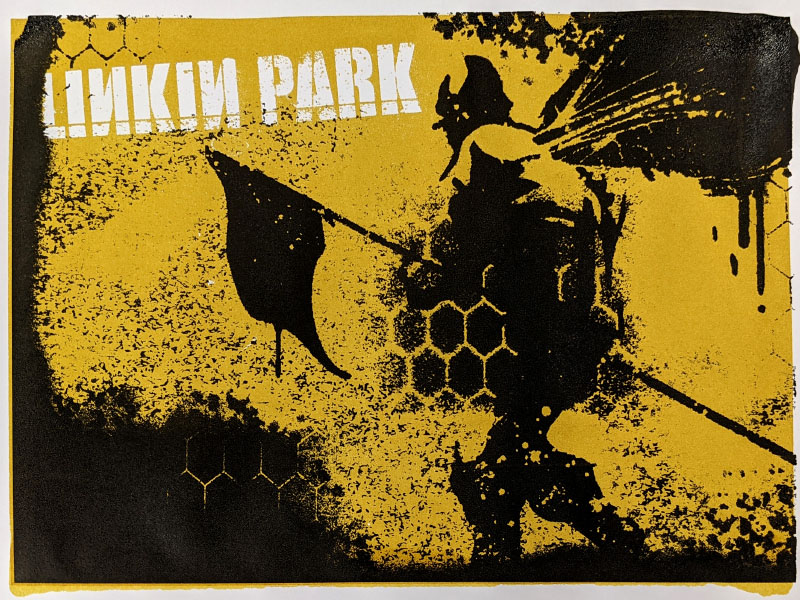
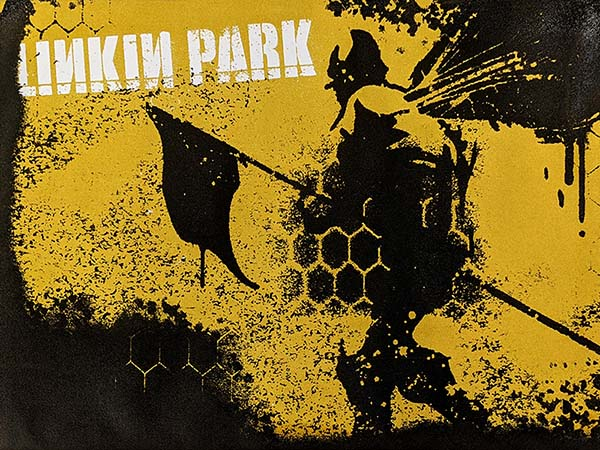
new cyberthug background. testing custom wiki

diff --git a/wiki/cyberthug.html b/wiki/cyberthug.html
@@ -1,0 +1,173 @@
+<!DOCTYPE html>
+<html lang="en">
+    <head>
+        <title>AmbiguousPhoenix</title>
+        <link rel="icon" type="image/png" href="../assets/favicon.png" />
+        <meta charset="utf-8">
+        <meta name="viewport" content="width=device-width, initial-scale=1">
+        <link rel="stylesheet" href="../framework/styles.css">
+        <link rel="stylesheet" href="../framework/colors.css">
+        <link rel="stylesheet" href="../framework/display.css">
+        <script src="../framework/scripts.js"></script>
+        <link rel="preconnect" href="https://fonts.googleapis.com">
+        <link rel="preconnect" href="https://fonts.gstatic.com" crossorigin>
+        <link href="https://fonts.googleapis.com/css2?family=Open+Sans:wght@300;400;500;700&display=swap" rel="stylesheet">
+    </head>
+    <body class="bgColor-blue" onload="document.body.style.opacity='1'">
+
+		<!-- Navbar Desktop-->
+        <nav class="navbarDesktop">
+            <div class="container-fluid" style="padding: 0px !important;">
+				<div class="navbarLogo" style="width: 440px;">
+					<img class="navbarLogo-image" src="../assets/vector/navbarHexagons.svg"/>
+					<a href="../index.html">
+                        <div class="navbarLogo-text">
+                            <span>AmbiguousPhoenix Wiki</span>
+                        </div>
+                    </a>
+				</div>
+                <div class="navbarLinks">
+					<a href="../cyberthug.html">
+						<div class="navbarLinks-other" style="width: 138px;">
+							<img class="navbarLinks-image" src="../assets/vector/cyberthug_small.svg"/>
+							<span class="navbarLinks-text">Cyberthug</span>
+						</div>
+					</a>
+					<a href="../phoenixNest.html">
+						<div class="navbarLinks-other" style="width: 158px;">
+							<img class="navbarLinks-image" src="../assets/vector/phoenixNest.svg"/>
+							<span class="navbarLinks-text">Phoenix Nest</span>
+						</div>
+					</a>
+					<div class="navbarLinksDividerDesktop"></div>
+					<a href="../school.html">
+    					<div class="navbarLinks-other" style="width: 108px;">
+    						<img class="navbarLinks-image" src="../assets/vector/school.svg"/>
+							<span class="navbarLinks-text">School</span>
+    					</div>
+					</a>
+					<a href="../photography.html">
+						<div class="navbarLinks-other" style="width: 156px;">
+							<img class="navbarLinks-image" src="../assets/vector/camera.svg"/>
+							<span class="navbarLinks-text">Photography</span>
+						</div>
+					</a>
+					<a href="../blog.html">
+						<div class="navbarLinks-other" style="width: 94px;">
+							<img class="navbarLinks-image" src="../assets/vector/pencil.svg"/>
+							<span class="navbarLinks-text">Blog</span>
+						</div>
+					</a>
+					<div class="navbarLinksDividerDesktop"></div>
+    				<a href="../about.html">
+    					<div class="navbarLinks-other" style="width: 72px !important;">
+							<span class="navbarLinks-text" style="margin-left: 0px; opacity: 100% !important;">About</span>
+    					</div>
+    				</a>
+                </div>
+                <div class="socialMediaNavbar">
+					<div class="socialMediaNavbar-link" style="border-radius: 13px 6px 6px 13px;">
+                        <a href="https://www.youtube.com/channel/UC3IHSgAeydyoG2bnNkp2FmA">
+                            <img class="socialMediaLink-image" src="../assets/vector/youtube.svg"/>
+                        </a>
+                    </div>
+					<div class="socialMediaNavbar-link" style="border-radius: 6px;">
+                        <a href="https://www.deviantart.com/ambiguousphoenix">
+                            <img class="socialMediaLink-image" src="../assets/vector/deviantArt.svg"/>
+                        </a>
+                    </div>
+                    <div class="socialMediaNavbar-link" style="border-radius: 6px;">
+                        <a href="https://twitter.com/ambiguousfeenix">
+                            <img class="socialMediaLink-image" src="../assets/vector/twitter.svg"/>
+                        </a>
+                    </div>
+                    <div class="socialMediaNavbar-link" style="border-radius: 6px 13px 13px 6px;">
+                        <a href="https://github.com/ambiguousphoenix">
+                            <img class="socialMediaLink-image" src="../assets/vector/github.svg"/>
+                        </a>
+                    </div>
+                </div>
+            </div>
+        </nav>
+
+
+		<!-- Navbar Mobile -->
+        <nav class="navbarMobile">
+            <div class="container-fluid" style="padding: 0px !important;">
+                <div class="navbarLogo">
+					<img class="navbarLogo-image" src="../assets/vector/navbarHexagons.svg"/>
+					<a href="../index.html">
+                        <div class="navbarLogo-text">
+                            <span>AmbiguousPhoenix</span>
+                        </div>
+                    </a>
+				</div>
+				<div class="navbarDividerMobile"></div>
+                <div class="navbarLinks" style="height: 48px;">
+					<a href="../cyberthug.html">
+						<div class="navbarLinks-other" style="border-radius: 0rem;">
+							<img class="navbarLinks-image" src="../assets/vector/cyberthug_small.svg"/>
+						</div>
+					</a>
+					<a href="../phoenixNest.html">
+						<div class="navbarLinks-other" style="border-radius: 0rem;">
+							<img class="navbarLinks-image" src="../assets/vector/phoenixNest.svg"/>
+						</div>
+					</a>
+					<div class="navbarLinksDividerDesktop"></div>
+					<a href="../school.html">
+						<div class="navbarLinks-other" style="border-radius: 0rem;">
+							<img class="navbarLinks-image" src="../assets/vector/school.svg"/>
+						</div>
+					</a>
+					<a href="../photography.html">
+						<div class="navbarLinks-other" style="border-radius: 0rem;">
+							<img class="navbarLinks-image" src="../assets/vector/camera.svg"/>
+						</div>
+					</a>
+					<a href="../blog.html">
+						<div class="navbarLinks-other" style="border-radius: 0rem;">
+							<img class="navbarLinks-image" src="../assets/vector/pencil.svg"/>
+						</div>
+					</a>
+					<div class="navbarLinksDividerDesktop"></div>
+					<a href="../about.html">
+						<div class="navbarLinks-other" style="border-radius: 0rem; width: 72px !important;">
+							<span class="navbarLinks-text" style="margin-left: 0px; opacity: 100% !important;">About</span>
+						</div>
+					</a>
+                </div>
+            </div>
+        </nav>
+
+
+        <div class="colorStrip"></div>
+
+		<!-- Blog post -->
+        <section class="section" style="display: flex; padding: 0;">
+			<div class="container column2-20 bgColor-blueDark" style="height: 2000px; padding-top: 1rem;">
+                <span class="section-heading textColor-white" style="text-align: left;">All Pages</span>
+				<br>
+				<a class="textLink2" href="../wiki/cyberthug.html">Cyberthug</a><br>
+				<a class="textLink2" href="../wiki/cyberthugCore.html">Cyberthug Core</a><br>
+            </div>
+            <div class="container column2-80" style="padding-top: 4rem; padding-left: 5%; padding-right: 5%;">
+                <span class="section-heading textColor-white" style="text-align: left;">Cyberthug</span>
+				<div class="blog-divider"></div>
+                <div class="row">
+					<p class="blog-paragraph textColor-white">
+						wiki entry
+					</p>
+                </div>
+            </div>
+        </section>
+
+
+        <!-- Copyright -->
+        <div class="footer">
+            <div class="colorStrip"></div>
+            <span class="copyright">&copy; AmbiguousPhoenix 2021</span>
+        </div>
+
+    </body>
+</html>

diff --git a/school.html b/school.html
@@ -196,7 +196,7 @@
 							<a class="glassButton-link" href="files/2021-sem2-appliedMedia.pdf">
 								<img class="glassButton-image" style="padding: 1rem;" src="assets/vector/workbook.svg"/>
 								<div style="display: flex; flex-direction: column; margin-top: auto; margin-bottom: auto;">
-									<span style="font-weight: 500;">Applied Media Studio (Cyberthug Core)</span>
+									<span style="font-weight: 500;">Applied Media Studio</span>
 								</div>
 							</a>
 						</div>
@@ -204,7 +204,7 @@
 							<a class="glassButton-link" href="files/2021-sem2-appliedMedia-cyberthugDelta.pdf">
 								<img class="glassButton-image" style="padding: 1rem;" src="assets/vector/workbook.svg"/>
 								<div style="display: flex; flex-direction: column; margin-top: auto; margin-bottom: auto;">
-									<span style="font-weight: 500;">Applied Media Studio (Cyberthug Delta)</span>
+									<span style="font-weight: 500;">Applied Media Studio (Cyberthug Remake)</span>
 								</div>
 							</a>
 						</div>
@@ -265,12 +265,12 @@
                     </div>
 
 					<div class="column3 cardStandard bgColor-school-2b">
-                        <span class="cardStandard-title">Cyberthug Delta</span>
+                        <span class="cardStandard-title">Cyberthug Remake</span>
 						<br>
                         <span class="cardStandard-subtitle textColor-secondary">Semester 2: Applied Media Studio</span>
                         <img class="cardStandard-image" src="assets/images/school/cyberthugDelta2.jpg"/>
                         <div class="cardStandard-description">
-                            <span>This was something I decided to do as supplementary material. It's an attempt to recreate the Cyberthug in a CGI environment. I didn't end up finishing it, but considering I didn't have much experience with modelling characters, I'm pretty impressed with how it turned out.</span>
+                            <span>This was something I decided to do as supplementary material. It's an attempt to recreate the Cyberthug in Blender and Maya. I didn't end up finishing it, but it's a start in learning character modelling.</span>
                         </div>
                     </div>
 
@@ -369,7 +369,7 @@
                         <span class="cardStandard-title">Energy Drink</span>
                         <img class="cardStandard-image" src="assets/images/school/energyDrink.jpg"/>
                         <div class="cardStandard-description">
-                            <span>sample text</span>
+                            <span>This was made for a graphic design class, and involved creating a concept for a product.</span>
                         </div>
                     </div>
 
@@ -467,7 +467,7 @@
                         <span class="cardStandard-subtitle textColor-secondary">Semester 1: Digital Studio</span>
                         <img class="cardStandard-image" src="assets/images/school/multipage.jpg"/>
                         <div class="cardStandard-description">
-                            <span>This was one of my first assignments at Te Auaha. I think it just required some provided blocks of text that the visitor could navigate between.</span>
+                            <span>This was one of my first assignments at Weltec. I think it just required some provided blocks of text that the visitor could navigate between.</span>
                         </div>
 						<div class="cardStandard-button" style="float: right;">
                             <a class="cardStandard-buttonSub bgColor-school-3b" href="files/2018-sem1-multipage/index.html">
@@ -494,7 +494,7 @@
                             <iframe class="cardStandard-youtube" allowfullscreen src="https://www.youtube.com/embed/tuRGLbflg_w?rel=0&loop=1&modestbranding=1"></iframe>
                         </div>
                         <div class="cardStandard-description">
-                            <span>This music video turned out really bad in my opinion. I didn't give much consideration to the camera techniques and the narrative was a little sloppy.</span>
+                            <span>This music video turned out really bad in my opinion. I didn't give much consideration to the camera techniques and the narrative was a little sloppy. I even lip-synched to my own voice!</span>
                         </div>
                     </div>
 

diff --git a/framework/display.css b/framework/display.css
@@ -68,6 +68,16 @@
         width: 100%;
     }
 
+	.column2-80 {
+        flex: 0 0 auto;
+        width: 100%;
+    }
+
+	.column2-20 {
+        flex: 0 0 auto;
+        width: 100%;
+    }
+
 	.columnCyberthugA {
 	    flex: 0 0 auto;
 	    width: 100%;
@@ -193,6 +203,16 @@
     }
 
 	.column2-40 {
+        flex: 0 0 auto;
+        width: 100%;
+    }
+
+	.column2-80 {
+        flex: 0 0 auto;
+        width: 100%;
+    }
+
+	.column2-20 {
         flex: 0 0 auto;
         width: 100%;
     }
@@ -327,6 +347,16 @@
 		padding-right: 2rem;
     }
 
+	.column2-80 {
+        flex: 0 0 auto;
+        width: 100%;
+    }
+
+	.column2-20 {
+        flex: 0 0 auto;
+        width: 100%;
+    }
+
 	.columnCyberthugA {
 	    flex: 0 0 auto;
 	    width: 40%;
@@ -450,6 +480,18 @@
 	.column2-40 {
         flex: 0 0 auto;
         width: 40%;
+		padding-right: 2rem;
+    }
+
+	.column2-80 {
+        flex: 0 0 auto;
+        width: 80%;
+		padding-right: 2rem;
+    }
+
+	.column2-20 {
+        flex: 0 0 auto;
+        width: 20%;
 		padding-right: 2rem;
     }
 

diff --git a/phoenixNest.html b/phoenixNest.html
@@ -155,7 +155,7 @@
 
 					<div class="column1">
 						<span class="text-paragraph">
-							Phoenix Nest is an playable "metagame" of my work (a showcase within a showcase), made with the Unity game engine. I thought this would be a good opportunity to work on this over the 2021/22 holiday period as a way to learn the software while staying busy. I've made basic games with the engine before, but I want to see how far I can push it.
+							Phoenix Nest is a game currently in development.
 						</span>
 					</div>
 

diff --git a/framework/styles.css b/framework/styles.css
@@ -989,6 +989,14 @@ span {
 	background-color: #b0b0b0;
 }
 
+.blog-divider2 {
+	width: 100%;
+	height: 1px;
+	margin-top: 0.5rem;
+	margin-bottom: 0.5rem;
+	background-color: #b0b0b0;
+}
+
 .blog-heading {
 	margin-top: 5rem;
 	font-size: 1.8rem;
@@ -1052,6 +1060,15 @@ span {
 
 .textLink:hover {
 	color: #D5DCFF;
+}
+
+.textLink2 {
+	color: #a0a0a0;
+	transition: all 0.15s ease-out;
+}
+
+.textLink2:hover {
+	color: #e0e0e0;
 }
 
 

diff --git a/cyberthug.html b/cyberthug.html
@@ -140,7 +140,7 @@
         <div class="colorStrip"></div>
 
 		<!-- Feature section -->
-        <section class="featureCyberthug" style="background-image: url('assets/images/cyberthug/background.jpg');">
+        <section class="featureCyberthug" style="background-image: url('assets/images/cyberthug/background2.jpg');">
             <div class="container featureContent">
 
                 <div class="avatar">
